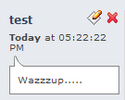
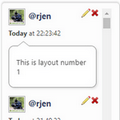
Shoutbox update

diff --git a/Themes/default/TPShout.template.php b/Themes/default/TPShout.template.php
@@ -338,7 +338,7 @@ function template_singleshout($row)
 			<div class="tp_shoutavatar">
 				<div class="avy2"><a href="' . $scripturl. '?action=profile;u=' . $row['value5'] . '">' . $row['avatar'] . '</a></div>
 				' . (allowedTo('tp_can_admin_shout') ? '
-				<div style="float: right; margin-bottom: 3px;">
+				<div class="shoutbox_edit">
 					<a href="' . $scripturl. '?action=tpmod;shout=admin;s=' . $row['id'] . ';' . $context['session_var'] . '=' . $context['session_id'].'"><img src="' . $settings['tp_images_url'] . '/TPmodify.png" alt="'.$txt['tp-edit'].'" /></a>
 					<a onclick="TPupdateShouts(\'del\', '. $row['id'] . '); return false;" class="shout_delete" title="'.$txt['tp-delete'].'" href="' . $scripturl. '?action=tpmod;shout=del;s=' . $row['id'] . ';' . $context['session_var'] . '=' . $context['session_id'].'"><img src="' . $settings['tp_images_url'] . '/tp-delete_shout.png" alt="'.$txt['tp-delete'].'" /></a>
 				</div>' : '') . '
@@ -354,8 +354,8 @@ function template_singleshout($row)
 			<div class="shout_options">
 				' . $row['realName'] . ':
 				' . (allowedTo('tp_can_admin_shout') ? '
-				<a href="' . $scripturl. '?action=tpmod;shout=admin;s=' . $row['id'] . ';' . $context['session_var'] . '=' . $context['session_id'].'"><img src="' . $settings['tp_images_url'] . '/TPmodify.png" alt="'.$txt['tp-edit'].'" /></a>
-				<a onclick="TPupdateShouts(\'del\', '. $row['id'] . '); return false;" class="shout_delete" title="'.$txt['tp-delete'].'" href="' . $scripturl. '?action=tpmod;shout=del;s=' . $row['id'] . ';' . $context['session_var'] . '=' . $context['session_id'].'"><img src="' . $settings['tp_images_url'] . '/tp-delete_shout.png" alt="'.$txt['tp-delete'].'" /></a>' : ''). '
+				<a onclick="TPupdateShouts(\'del\', '. $row['id'] . '); return false;" class="shout_delete" title="'.$txt['tp-delete'].'" href="' . $scripturl. '?action=tpmod;shout=del;s=' . $row['id'] . ';' . $context['session_var'] . '=' . $context['session_id'].'"><img src="' . $settings['tp_images_url'] . '/tp-delete_shout.png" alt="'.$txt['tp-delete'].'" /></a>
+				<a href="' . $scripturl. '?action=tpmod;shout=admin;s=' . $row['id'] . ';' . $context['session_var'] . '=' . $context['session_id'].'"><img src="' . $settings['tp_images_url'] . '/TPmodify.png" alt="'.$txt['tp-edit'].'" /></a>' : ''). '
 			</div>
 			<div class="shout_date">'. date('M. d Y - g:ia', $row['value2']).'</div>
 			<div class="shoutbody_layout1">' . $row['value1'] . '</div>
@@ -365,8 +365,10 @@ function template_singleshout($row)
 		<div class="shoutbody_layout2">
 			<div class="shout_options">
 				['. date( 'M-d H:i:s', $row['value2'] ).']
-				<div class="shoutbox_edit">	' . (allowedTo( 'tp_can_admin_shout' ) ? '<a href="'.$scripturl.'?action=tpmod;shout=admin;s='.$row['id'].';'.$context['session_var'].'='.$context['session_id'].'"><img src="'.$settings['tp_images_url'].'/TPmodify.png" alt="'.$txt['tp-edit'].'" /></a>
-					<a onclick="TPupdateShouts(\'del\', '. $row['id'].'); return false;" class="shout_delete" title="'.$txt['tp-delete'].'" href="'.$scripturl.'?action=tpmod;shout=del;s='.$row['id'].';'.$context['session_var'].'='.$context['session_id'].'"><img src="'.$settings['tp_images_url'].'/tp-delete_shout.png" alt="'.$txt['tp-delete'].'" /></a>' : '').'
+				<div class="shoutbox_edit">	
+				' . (allowedTo( 'tp_can_admin_shout' ) ? '
+				<a onclick="TPupdateShouts(\'del\', '. $row['id'].'); return false;" class="shout_delete" title="'.$txt['tp-delete'].'" href="'.$scripturl.'?action=tpmod;shout=del;s='.$row['id'].';'.$context['session_var'].'='.$context['session_id'].'"><img src="'.$settings['tp_images_url'].'/tp-delete_shout.png" alt="'.$txt['tp-delete'].'" /></a>
+				<a href="'.$scripturl.'?action=tpmod;shout=admin;s='.$row['id'].';'.$context['session_var'].'='.$context['session_id'].'"><img src="'.$settings['tp_images_url'].'/TPmodify.png" alt="'.$txt['tp-edit'].'" /></a>' : '').'
 				</div>
 				<b>' . $row['realName'].'</b>: '.$row['value1'].'
 			</div>
